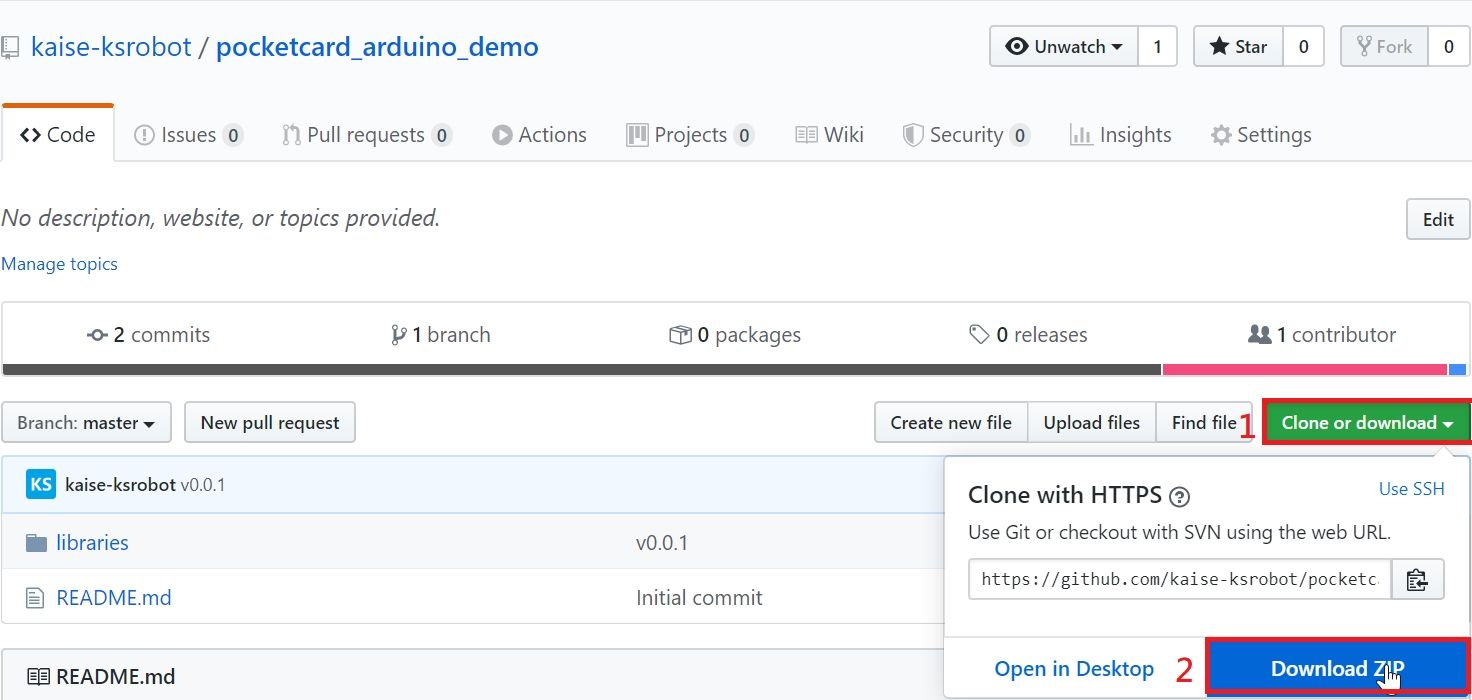
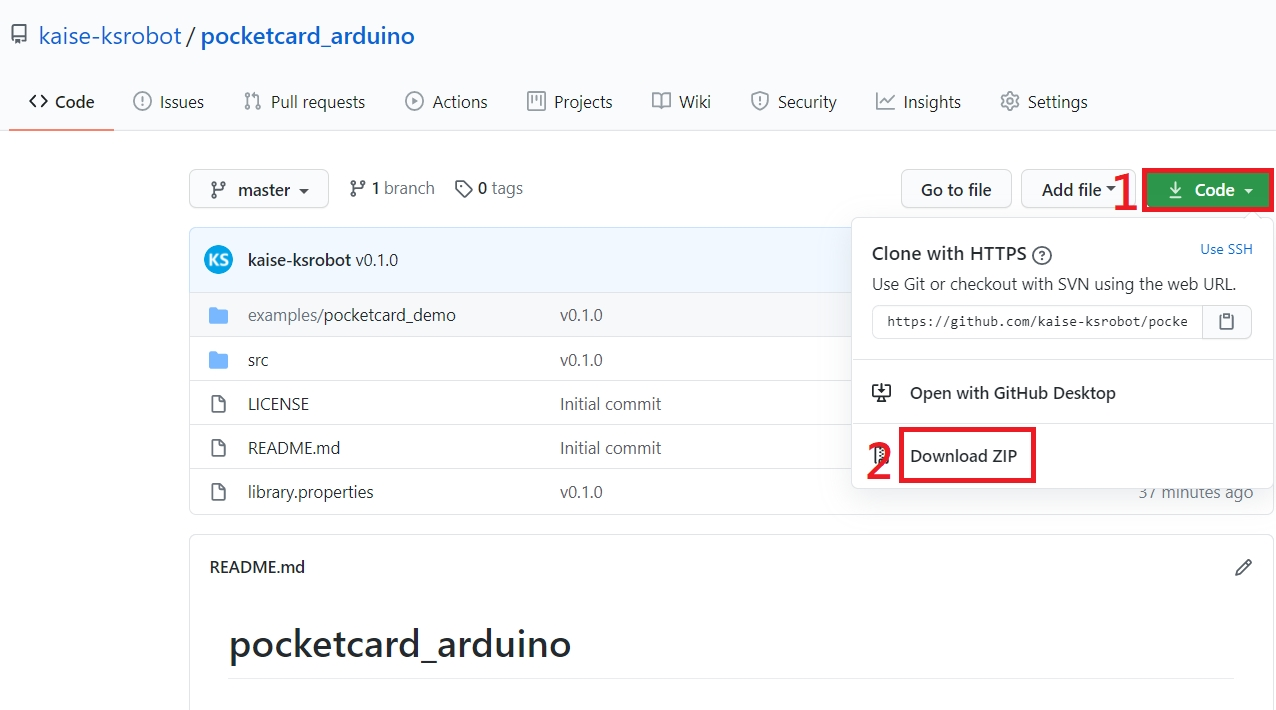
v0.1.13

diff --git a/ch/MCU/ESP/PocketCard_Arduino.html b/ch/MCU/ESP/PocketCard_Arduino.html
@@ -719,13 +719,14 @@
 <p>  &#x5728; Type &#x53F3;&#x65B9;&#x7A7A;&#x767D;&#x6B04;&#x4F4D;&#x8F38;&#x5165;&#x300C;esp32&#x300D;</p>
 <p>  &#x9EDE;&#x64CA;&#x300C;Install&#x300D;&#xFF0C;&#x7136;&#x5F8C;&#x7B49;&#x5F85;&#x5E7E;&#x5206;&#x9418;&#x4E0B;&#x8F09;&#x5B8C;&#x7562;&#x5F8C;&#x9EDE;&#x64CA;&#x53F3;&#x4E0B;&#x89D2;&#x843D;&#x7684;&#x300C;Close&#x300D;&#x9215;&#x95DC;&#x9589;&#x8996;&#x7A97;&#x3002; </p>
 <p>  <img src="images/arduino/00004.jpg" alt="00004" style="zoom: 67%;"></p>
-<h4 id="4-&#x8907;&#x88FD;-libraries">4. &#x8907;&#x88FD; Libraries</h4>
-<p>  &#x8ACB;&#x81F3;<a href="https://github.com/kaise-ksrobot/pocketcard_arduino_demo" target="_blank">https://github.com/kaise-ksrobot/pocketcard_arduino_demo</a></p>
+<h4 id="4-&#x532F;&#x5165;-libraries">4. &#x532F;&#x5165; Libraries</h4>
+<p>  &#x8ACB;&#x81F3;<a href="https://github.com/kaise-ksrobot/pocketcard_arduino" target="_blank">https://github.com/kaise-ksrobot/pocketcard_arduino</a></p>
 <p>  &#x9EDE;&#x9078;Download ZIP &#x4E0B;&#x8F09;&#x6A94;&#x6848;</p>
 <p><img src="images/arduino/00006.jpg" alt="00006"></p>
-<p>  &#x89E3;&#x58D3;&#x5F8C;&#x628A; pocketcard_arduino_demo/libraries &#x76EE;&#x9304;&#x4E2D;&#x7684;&#x6A94;&#x6848;Copy &#x5230; Arduino IDE/libraries</p>
-<p>  Arduino IDE/libraries &#x76EE;&#x9304;&#x4E2D;&#x6703;&#x591A;&#x51FA;5&#x500B;&#x76EE;&#x9304;</p>
+<p>  &#x9EDE;&#x64CA;&#x4E0B;&#x62C9;&#x529F;&#x80FD;&#x8868;&#x300C;&#x8349;&#x7A3F;&#x78BC;&#x300D;&gt;&#x300C;&#x532F;&#x5165;&#x7A0B;&#x5F0F;&#x5EAB;&#x300D;&gt; &#x300C;&#x52A0;&#x5165;.ZIP &#x7A0B;&#x5F0F;&#x5EAB;&#x300D;</p>
 <p>  <img src="images/arduino/00007.jpg" alt="00007" style="zoom:67%;"></p>
+<p>&#x9078; pocketcard_arduino-master.zip</p>
+<p>  <img src="images/arduino/00012.jpg" alt="00004" style="zoom: 67%;"></p>
 <h4 id="5-&#x9078;&#x64C7;-&#x958B;&#x767C;&#x677F;&#x548C;&#x9023;&#x63A5;&#x57E0;">5. &#x9078;&#x64C7; &#x958B;&#x767C;&#x677F;&#x548C;&#x9023;&#x63A5;&#x57E0;</h4>
 <p>  &#x9EDE;&#x64CA;&#x4E0B;&#x62C9;&#x529F;&#x80FD;&#x8868;&#x300C;Tools&#x300D;&gt;&#x300C;Board&#x300D;&#xFF0C;</p>
 <p>  &#x9078;&#x64C7;&#x300C;NodeMCU-32s&#x300D;</p>
@@ -733,14 +734,13 @@
 <p>  &#x7136;&#x5F8C;&#x518D;&#x9078;&#x64C7;&#x9023;&#x63A5;&#x57E0;</p>
 <p>  <img src="images/arduino/00008.jpg" alt="00008" style="zoom:67%;"></p>
 <h4 id="6-&#x57F7;&#x884C;-demo-code">6. &#x57F7;&#x884C; Demo Code</h4>
-<p>  &#x6253;&#x958B;Arduino IDE/libraries/PocketCard/examples/pocketcard_demo/pocketcard_demo.ino</p>
-<p>  <img src="images/arduino/00009.jpg" alt="00009" style="zoom:67%;"></p>
+<p>&#x200B;    <img src="images/arduino/00013.jpg" alt="00009" style="zoom:67%;"></p>
 <p>  &#x4E0B;&#x8F09;&#x6210;&#x529F;&#x5F8C;&#xFF0C;&#x6703;&#x807D;&#x5230;&#x8702;&#x9CF4;&#x5668;&#x97FF;&#x4E00;&#x8072;&#xFF0C;Oled &#x9762;&#x677F;&#x6703;&#x51FA;&#x73FE; &#x201C;Hello, world&#x201D; &#x518D;&#x6EC5;&#x6389;</p>
 <p>  &#x6309;A&#x9375; &#x6703;&#x51FA;&#x73FE;Light Sensor(A) &#x548C;Light Sensor(B ) &#x548C;Temperature Sensor &#x7684;&#x6578;&#x503C;</p>
 <p>   <img src="images/arduino/00010.jpg" alt="00010" style="zoom:67%;"></p>
 <p>&#x6309;B&#x9375; &#x6703;&#x51FA;&#x73FE;MPU9250&#x7684;&#x5075;&#x6E2C;&#x6578;&#x503C;&#x3002;</p>
 <p>  <img src="images/arduino/00011.jpg" alt="00011" style="zoom:67%;"></p>
-<footer class="page-footer-ex"> <span class="page-footer-ex-copyright"> By <em>KAISE KSRobot</em> </span> &#xA0;&#xA0;&#xA0;&#xA0;&#xA0;&#xA0;&#xA0;&#xA0;&#xA0;&#xA0; <span class="page-footer-ex-footer-update"> <i>updated</i> 2020-08-04 20:37:21 </span> </footer>
+<footer class="page-footer-ex"> <span class="page-footer-ex-copyright"> By <em>KAISE KSRobot</em> </span> &#xA0;&#xA0;&#xA0;&#xA0;&#xA0;&#xA0;&#xA0;&#xA0;&#xA0;&#xA0; <span class="page-footer-ex-footer-update"> <i>updated</i> 2020-08-16 14:02:26 </span> </footer>
                                 
                                 </section>
                             
@@ -783,7 +783,7 @@
     <script>
         var gitbook = gitbook || [];
         gitbook.push(function() {
-            gitbook.page.hasChanged({"page":{"title":"For Arduino","level":"1.2.3.1.2","depth":4,"next":{"title":"For MicroPython","level":"1.2.3.1.3","depth":4,"path":"MCU/ESP/PocketCard_MicroPython.md","ref":"MCU/ESP/PocketCard_MicroPython.md","articles":[]},"previous":{"title":"介紹","level":"1.2.3.1.1","depth":4,"path":"MCU/ESP/PocketCard.md","ref":"MCU/ESP/PocketCard.md","articles":[]},"dir":"ltr"},"config":{"plugins":["insert-logo","expandable-chapters-small","code","page-footer-ex"],"styles":{"website":"styles/website.css","pdf":"styles/pdf.css","epub":"styles/epub.css","mobi":"styles/mobi.css","ebook":"styles/ebook.css","print":"styles/print.css"},"pluginsConfig":{"livereload":{},"page-footer-ex":{"copyright":"By <em>KAISE KSRobot</em>","markdown":false,"update_format":"YYYY-MM-DD HH:mm:ss","update_label":"<i>updated</i>"},"search":{},"lunr":{"maxIndexSize":1000000,"ignoreSpecialCharacters":false},"code":{"copyButtons":true},"fontsettings":{"theme":"white","family":"sans","size":2},"highlight":{},"expandable-chapters-small":{},"sharing":{"facebook":true,"twitter":true,"google":false,"weibo":false,"instapaper":false,"vk":false,"all":["facebook","google","twitter","weibo","instapaper"]},"theme-default":{"styles":{"website":"styles/website.css","pdf":"styles/pdf.css","epub":"styles/epub.css","mobi":"styles/mobi.css","ebook":"styles/ebook.css","print":"styles/print.css"},"showLevel":false},"insert-logo":{"style":"background: none; max-height: 30px; min-height: 30px","url":"/docs/images/ks_logo.png"}},"theme":"default","author":"KAISE KSRobot","pdf":{"pageNumbers":true,"fontSize":12,"fontFamily":"Arial","paperSize":"a4","chapterMark":"pagebreak","pageBreaksBefore":"/","margin":{"right":62,"left":62,"top":56,"bottom":56}},"structure":{"langs":"LANGS.md","readme":"README.md","glossary":"GLOSSARY.md","summary":"SUMMARY.md"},"isbn":"","variables":{},"title":"KAISE KSRobot","language":"ch","links":{"sharing":{"all":null,"facebook":null,"google":null,"twitter":null,"weibo":null},"sidebar":{"KAISE KSRobot":"https://www.kaise.com.tw"}},"gitbook":"*","description":"KAISE KSRobot ","extension":null},"file":{"path":"MCU/ESP/PocketCard_Arduino.md","mtime":"2020-08-04T12:37:21.149Z","type":"markdown"},"gitbook":{"version":"3.2.3","time":"2020-08-04T12:52:59.960Z"},"basePath":"../..","book":{"language":"ch"}});
+            gitbook.page.hasChanged({"page":{"title":"For Arduino","level":"1.2.3.1.2","depth":4,"next":{"title":"For MicroPython","level":"1.2.3.1.3","depth":4,"path":"MCU/ESP/PocketCard_MicroPython.md","ref":"MCU/ESP/PocketCard_MicroPython.md","articles":[]},"previous":{"title":"介紹","level":"1.2.3.1.1","depth":4,"path":"MCU/ESP/PocketCard.md","ref":"MCU/ESP/PocketCard.md","articles":[]},"dir":"ltr"},"config":{"plugins":["insert-logo","expandable-chapters-small","code","page-footer-ex"],"styles":{"website":"styles/website.css","pdf":"styles/pdf.css","epub":"styles/epub.css","mobi":"styles/mobi.css","ebook":"styles/ebook.css","print":"styles/print.css"},"pluginsConfig":{"page-footer-ex":{"copyright":"By <em>KAISE KSRobot</em>","markdown":false,"update_format":"YYYY-MM-DD HH:mm:ss","update_label":"<i>updated</i>"},"search":{},"lunr":{"maxIndexSize":1000000,"ignoreSpecialCharacters":false},"code":{"copyButtons":true},"fontsettings":{"theme":"white","family":"sans","size":2},"highlight":{},"expandable-chapters-small":{},"sharing":{"facebook":true,"twitter":true,"google":false,"weibo":false,"instapaper":false,"vk":false,"all":["facebook","google","twitter","weibo","instapaper"]},"theme-default":{"styles":{"website":"styles/website.css","pdf":"styles/pdf.css","epub":"styles/epub.css","mobi":"styles/mobi.css","ebook":"styles/ebook.css","print":"styles/print.css"},"showLevel":false},"insert-logo":{"style":"background: none; max-height: 30px; min-height: 30px","url":"/docs/images/ks_logo.png"}},"theme":"default","author":"KAISE KSRobot","pdf":{"pageNumbers":true,"fontSize":12,"fontFamily":"Arial","paperSize":"a4","chapterMark":"pagebreak","pageBreaksBefore":"/","margin":{"right":62,"left":62,"top":56,"bottom":56}},"structure":{"langs":"LANGS.md","readme":"README.md","glossary":"GLOSSARY.md","summary":"SUMMARY.md"},"isbn":"","variables":{},"title":"KAISE KSRobot","language":"ch","links":{"sharing":{"all":null,"facebook":null,"google":null,"twitter":null,"weibo":null},"sidebar":{"KAISE KSRobot":"https://www.kaise.com.tw"}},"gitbook":"*","description":"KAISE KSRobot ","extension":null},"file":{"path":"MCU/ESP/PocketCard_Arduino.md","mtime":"2020-08-16T06:02:26.318Z","type":"markdown"},"gitbook":{"version":"3.2.3","time":"2020-08-16T06:04:05.789Z"},"basePath":"../..","book":{"language":"ch"}});
         });
     </script>
 </div>
@@ -802,10 +802,6 @@
     
         
         <script src="../../../gitbook/gitbook-plugin-code/plugin.js"></script>
-        
-    
-        
-        <script src="../../../gitbook/gitbook-plugin-livereload/plugin.js"></script>
         
     
         
